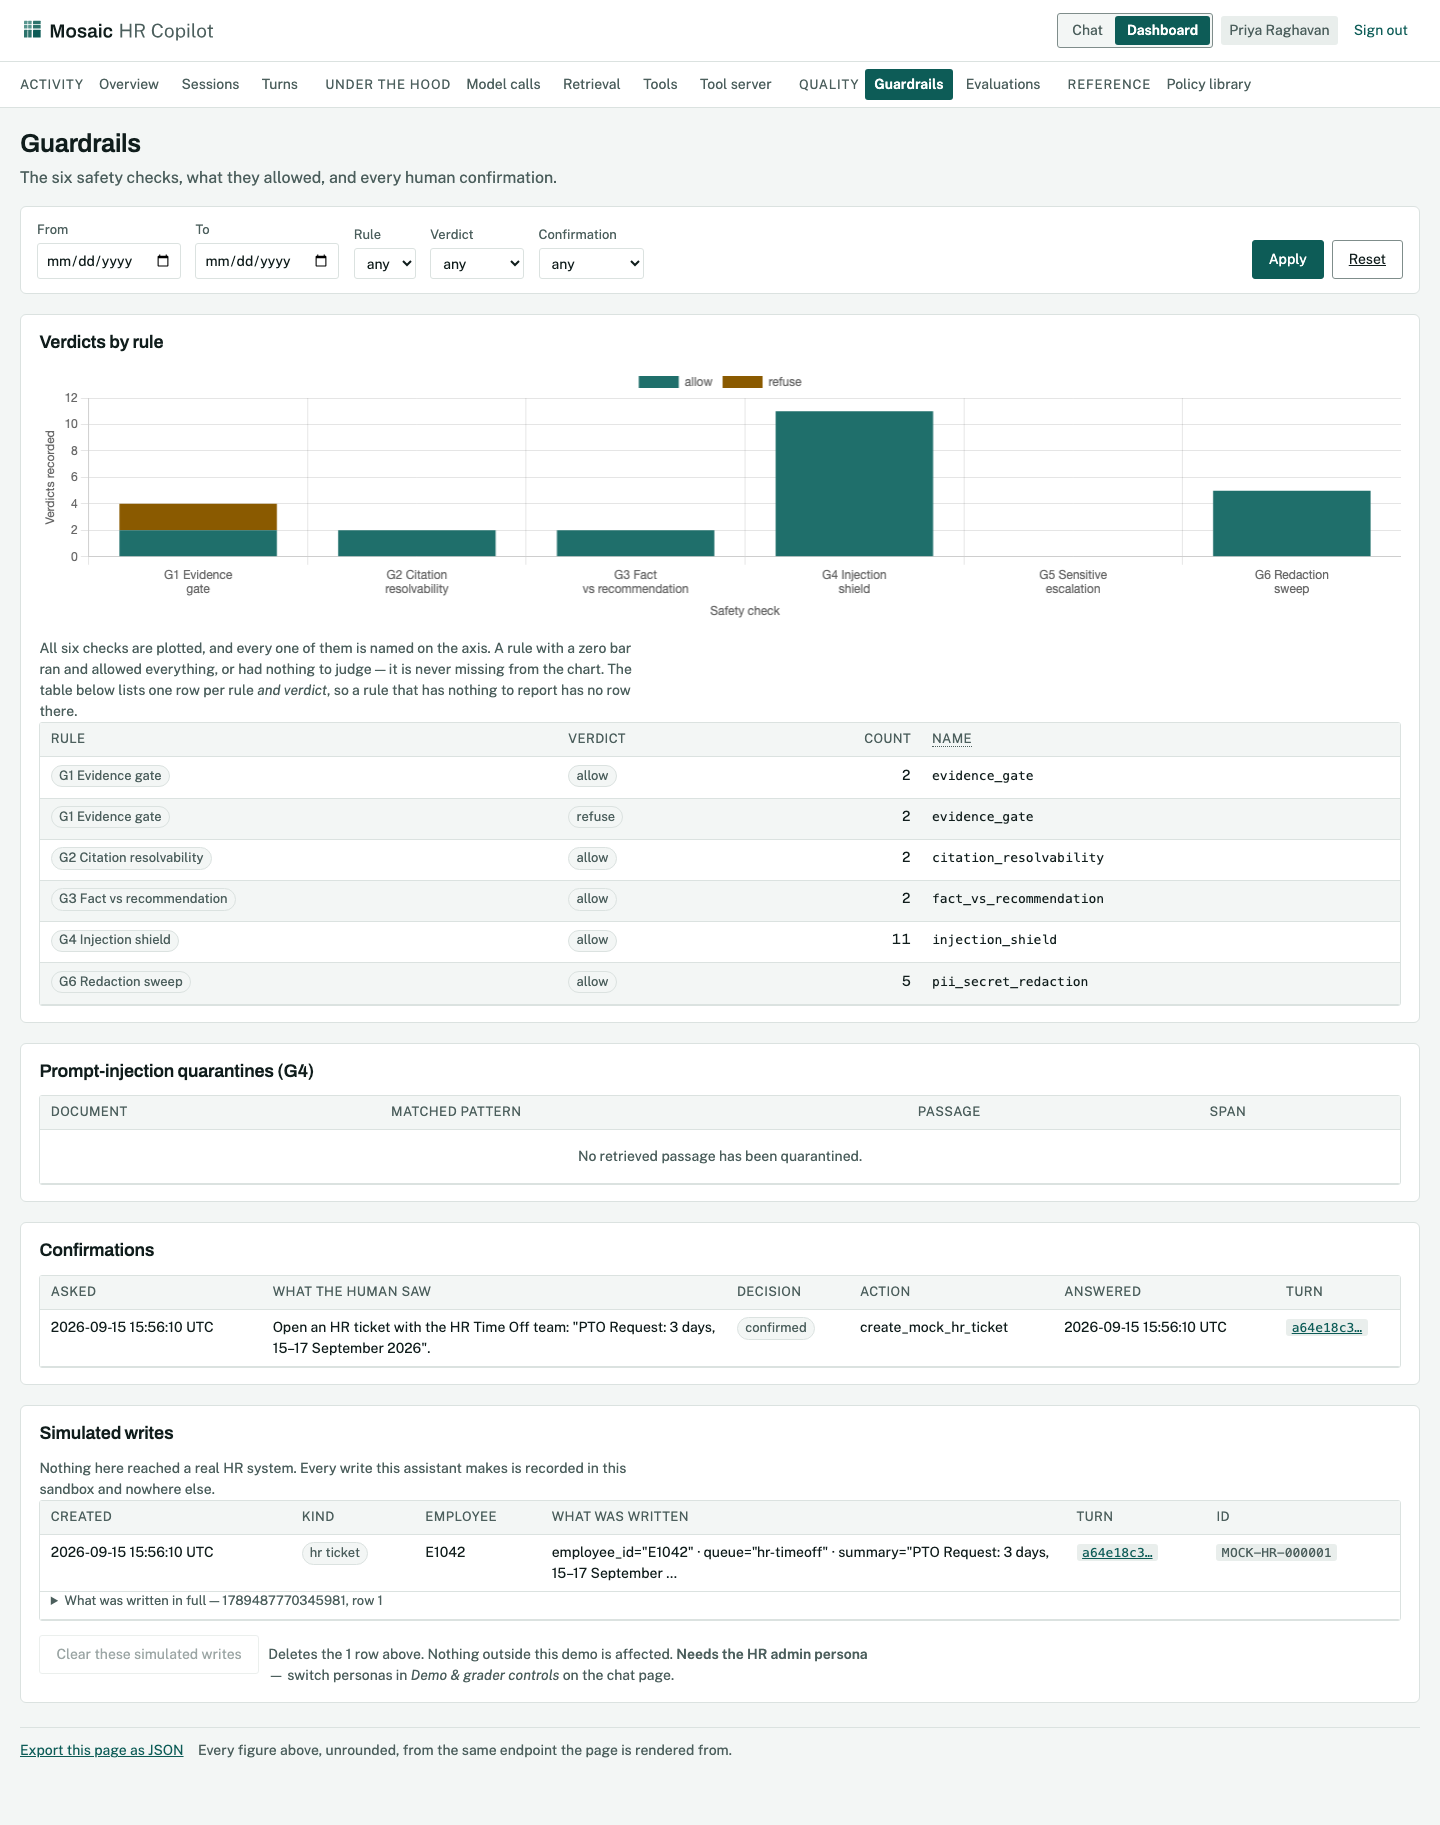
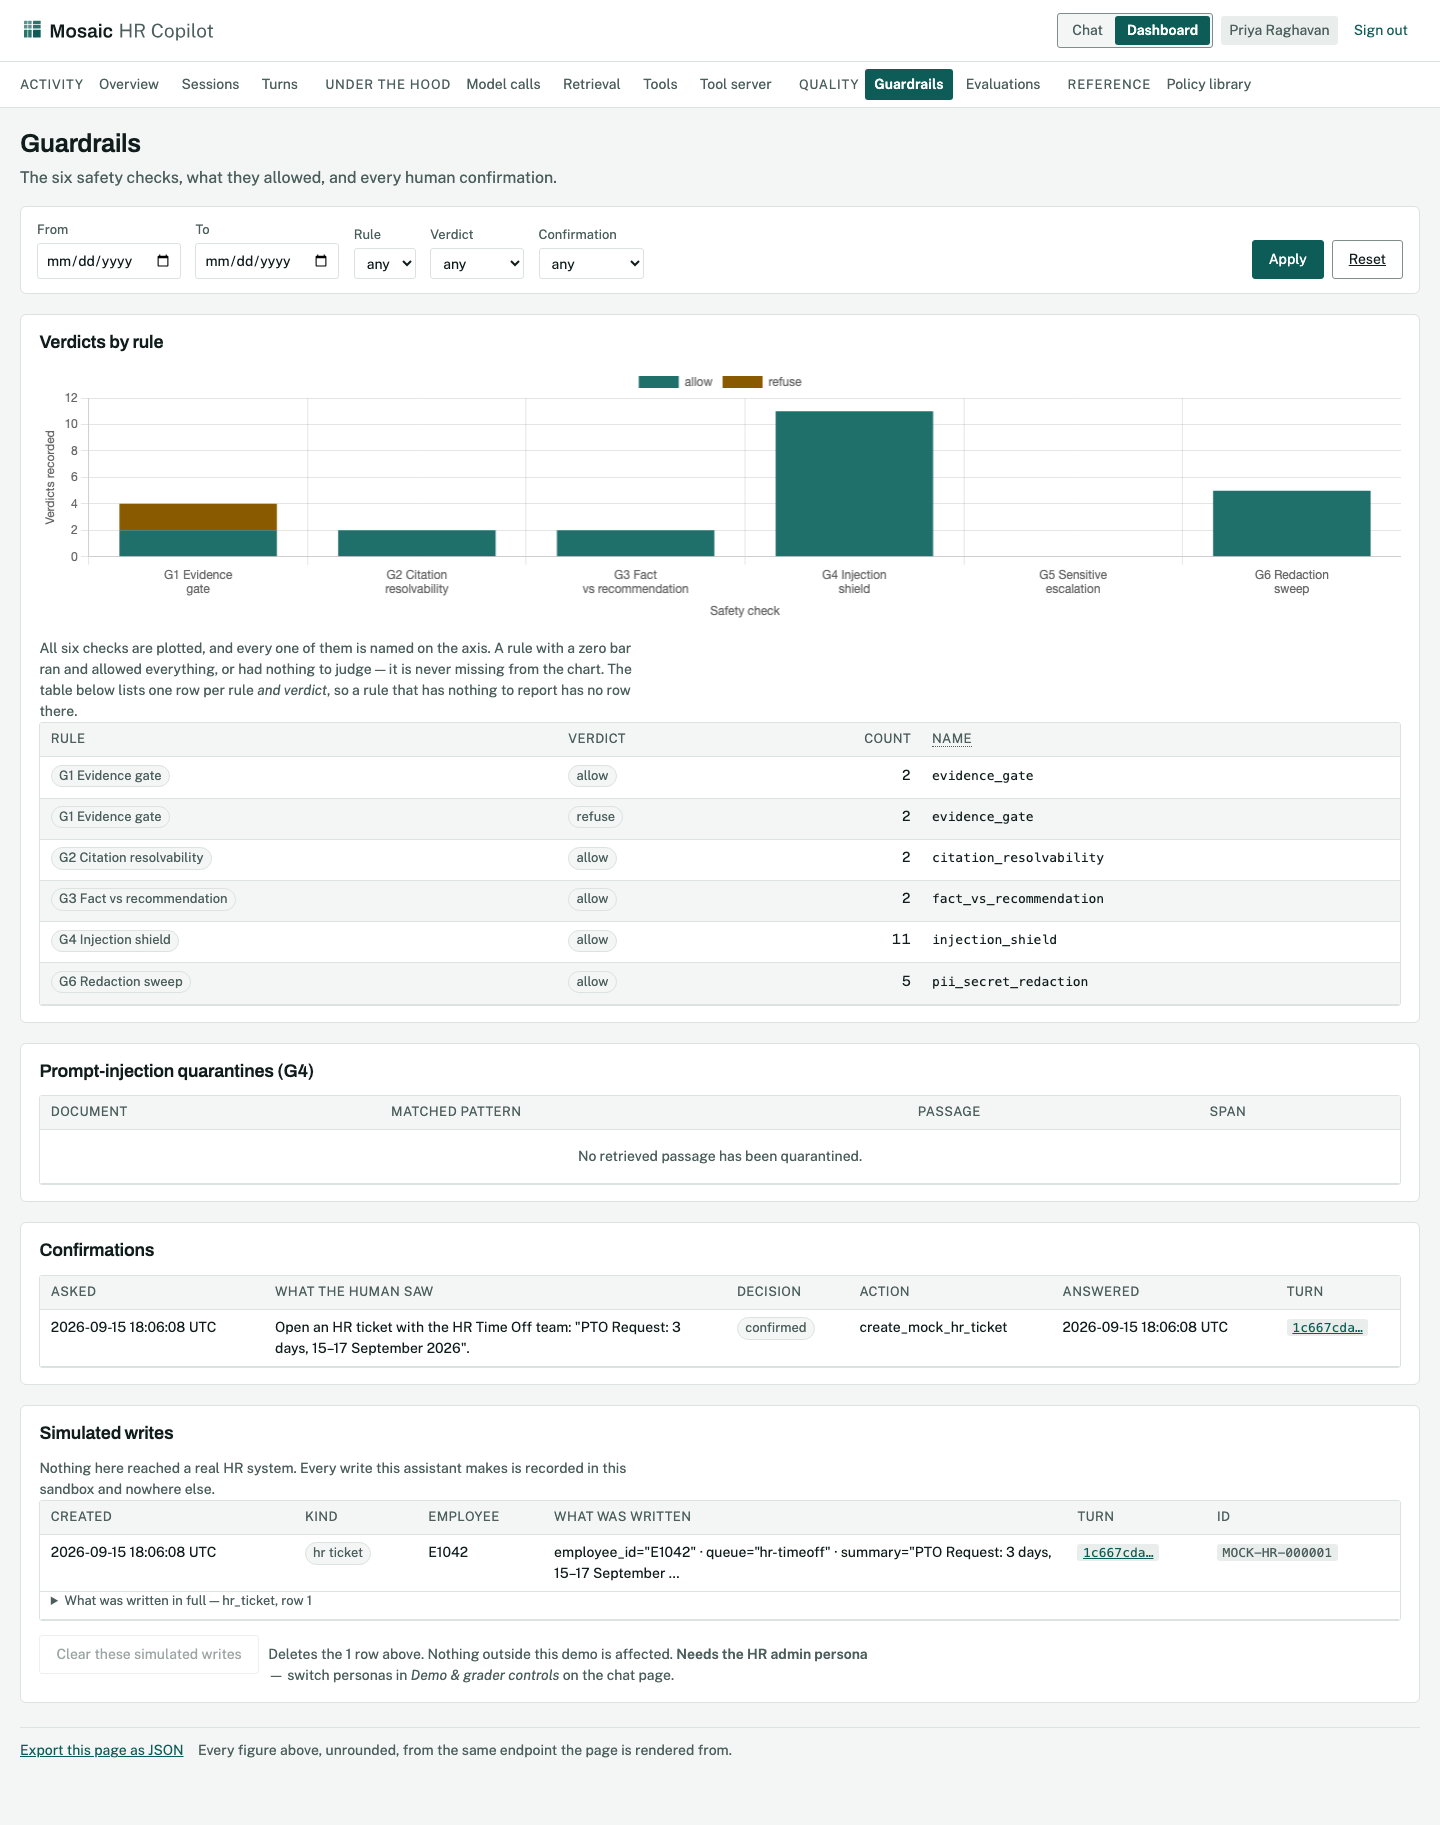
UX-W6(evidence): refresh the safety screen after the row-name fix; the live demo-1 run that hit the tool-call cap
The committed safety-page after-shot predated the wave's own self-review fix to row_name() and still
named a disclosure by an epoch. Replaced with the W6b-commit capture. Also committed: the transcript of
the live demo-1 run on 4058404 that stopped at AGENT_MAX_TOOL_CALLS=8 — the evidence P28 acts on.

Claude-Session: https://claude.ai/code/session_01RnJs3hSPUc8kca4BtF5oAM

diff --git a/docs/evidence/ux-w6/README.md b/docs/evidence/ux-w6/README.md
@@ -25,3 +25,9 @@ paragraph's source lines with `<br>`, so the corpus's ~150-character hard wrap w
 forced break mid-sentence (*"…anywhere there is a laptop and a reliable / connection."*). The
 paragraphs in the current file wrap to the column they are read in, which is what the previous
 `<p>{{ chunk.text }}</p>` did before this wave and what the fix restores.
+
+**Refreshed after W6b.** `dashboard-safety-after.png` was first captured before the wave's own
+self-review fix to `row_name()` and still showed the disclosure named by an epoch
+(*"What was written in full — 1789487770345981, row 1"*). The file now in this directory is the
+`make ux-capture` screen from the W6b commit, where the disclosure is named by the row's first
+worded column (*"hr_ticket, row 1"*). Nothing else in the set changed.
